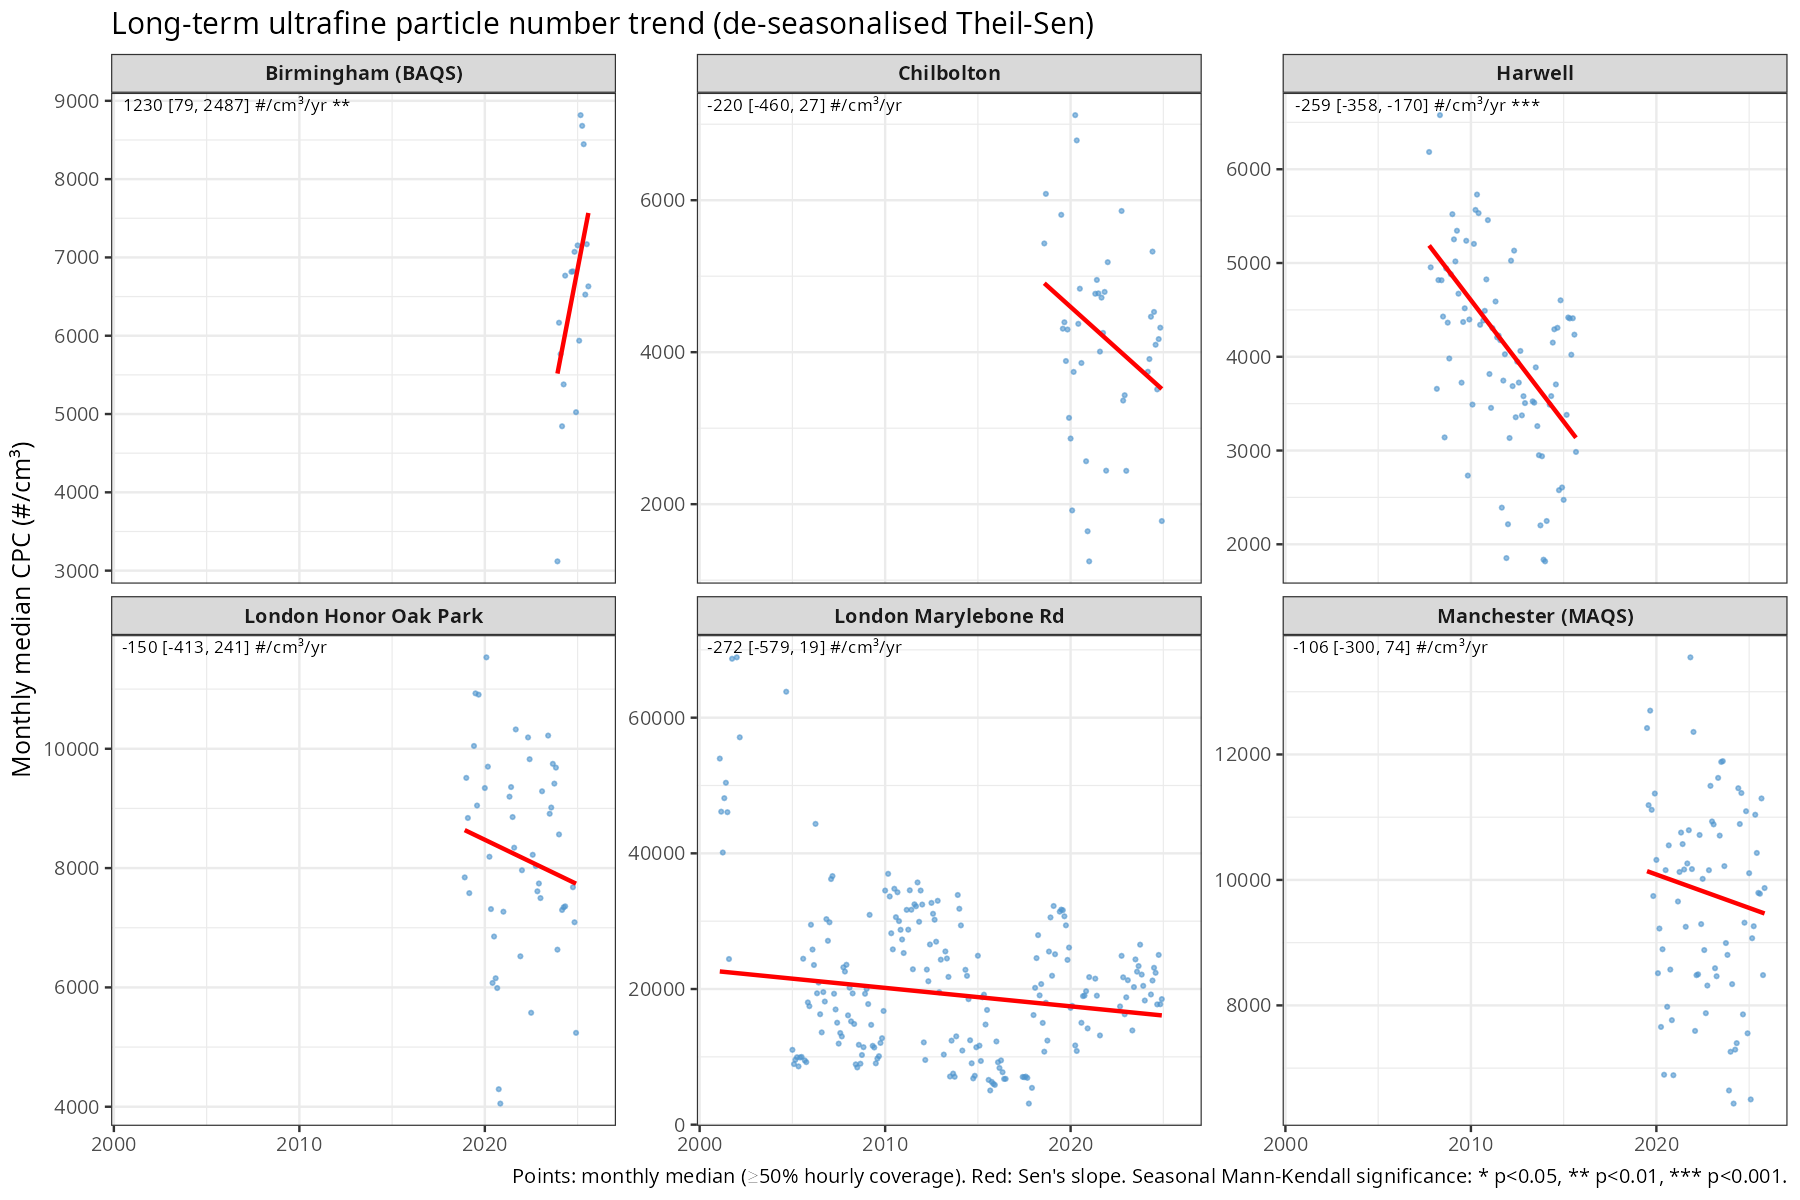
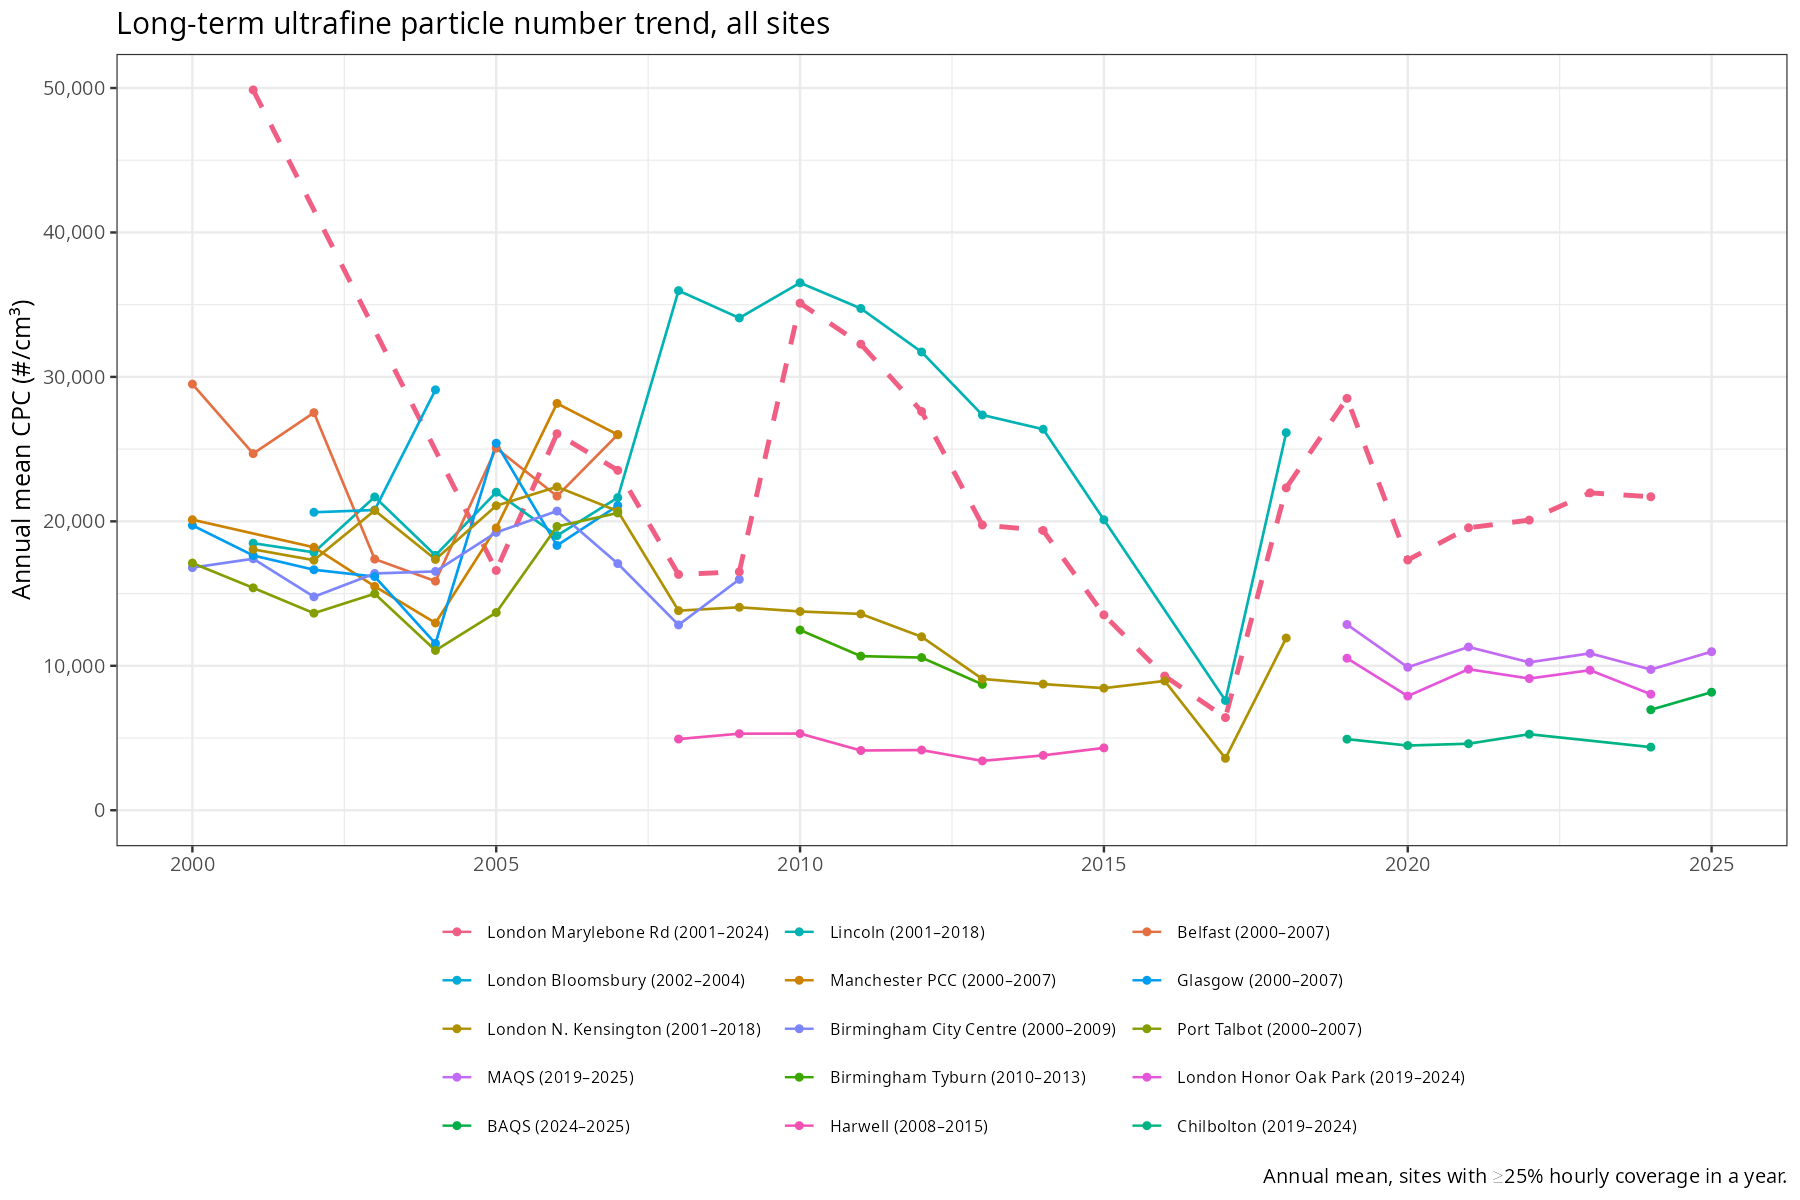
updated Fig 2 and associated text

diff --git a/ufp/README.md b/ufp/README.md
@@ -1,12 +1,10 @@
 # UK Ultrafine Particle (UFP) Trends
 
-A long-term analysis of ultrafine particle number concentrations and size
-distributions at UK monitoring sites, built in R from raw CPC (condensation
-particle counter) and SMPS (scanning mobility particle sizer) instrument
-data spanning **1998–2025**: 15 sites with CPC-only records, 6 of them also
+Using publicly available CPC (condensation particle counter) and SMPS (scanning mobility particle sizer) data from long-term UK monitoring sites, this project is investigating long-term and short-term trends in ultrafine particle (UFP) number concentrations and size
+distributions across the UK. Instrument
+data spans **1998–2025**, with varying amounts of temporal coverage: 15 sites with CPC-only records, 6 of them also
 with concurrent SMPS size-distribution records. The project harmonises six
-different instrument generations onto a common data model, then uses that to
-look at long-term trends, seasonal/diurnal structure, and individual
+different instrument generations and data formats into a common data model, which is used to visualize long-term trends, seasonal/diurnal structure, and individual
 new-particle-formation (NPF) events.
 
 ![Data coverage](figures/fig1_data_coverage.png)
@@ -15,28 +13,31 @@ new-particle-formation (NPF) events.
 |---|---|---|---|
 | Birmingham (BAQS) | 2022–2025 | 2022–2025, 61 bins, 10.4–777 nm | BAQS supersite |
 | Manchester (MAQS) | 2019–2025 | 2019–2025, ~100 bins, 15–552 nm | MAQS supersite |
-| London Marylebone Rd | 1998–2024 | 1998–2009, 2015–2023 (51→122 bins) | Defra PMP, Beddows AURN, UK-AIR |
+| London Marylebone Rd | 1998–2024 | 1998–2009, 2015–2023 (51→122 bins) | Defra PMP, AURN, UK-AIR |
 | London Honor Oak Park | 2015–2024 | 2019–2023 (51→122 bins) | NPL, UK-AIR |
 | London N. Kensington | 2000–2020 | 2007–2020, 51 bins, 16.6–604 nm | Defra PMP, UK-AIR |
-| Harwell | 1998–2020 (gap 2015–20) | 1998–2009, 2015 (51 bins) | Defra PMP, Beddows AURN, UK-AIR |
+| Harwell | 1998–2020 (gap 2015–20) | 1998–2009, 2015 (51 bins) | Defra PMP, AURN, UK-AIR |
 | Chilbolton | 2015–2024 | 2020–2023 (51→122 bins) | NPL, UK-AIR |
-| Bloomsbury, Belfast, Glasgow, Manchester PCC, Port Talbot, Tyburn, Lincoln, Birmingham City Centre | 2000–2020 (varies) | — | Defra PMP / Beddows AURN |
+| Bloomsbury, Belfast, Glasgow, Manchester PCC, Port Talbot, Tyburn, Lincoln, Birmingham City Centre | 2000–2020 (varies) | — | Defra PMP / AURN |
 
-Full detail in `papers/analysis_summary.md`.
+Additional details in `papers/analysis_summary.md`.
 
 ---
 
-## Key findings
+## Preliminary findings
 
-**1. Widespread multi-year decline in particle number, with one clear exception.**
-De-seasonalised Theil-Sen trends (seasonal Mann-Kendall) on monthly median CPC
-concentration show a statistically significant decline at Harwell
-(−259 #/cm³/yr, p<0.001) and London Marylebone Rd (Marylebone falls from
-peaks of 40,000–65,000 #/cm³ in the early 2000s to a 2020s baseline around
-20,000 #/cm³, though its longer, noisier record only reaches p≈0.06). BAQS is
-the exception: its short 2022–2025 record shows a significant *increase*
-(+1,230 #/cm³/yr, p<0.01) — treated as provisional given only ~3 years of
-data, not evidence of a genuine multi-year trend either way.
+**1. Widespread multi-year decline in particle number, with Marylebone the
+persistent outlier.** Annual mean CPC concentration across all 15 monitored
+sites shows a broad decline over the observational record: London Marylebone
+Rd falls from a peak of ~49,900 #/cm³ in 2001 to a 2020s baseline around
+20,000 #/cm³, while remaining the highest site in nearly every year it's
+measured. Excluding Marylebone, the PMP-era 2000s sites (Belfast, Bloomsbury,
+Manchester PCC, Glasgow, Kensington, Birmingham City Centre, Port Talbot,
+Lincoln) generally ran higher — roughly 12,000–36,000 #/cm³ — than the
+modern-instrument sites measured from 2019 onward (MAQS, HOP, BAQS,
+Chilbolton), which cluster around 4,000–13,000 #/cm³. BAQS's short
+2024–2025 record shows an uptick within that range — only two years, too
+short to treat as a genuine trend either way.
 
 ![Long-term trend](figures/fig2_longterm_trend.png)
 
@@ -191,11 +192,3 @@ integration, since this project's bin widths are not perfectly uniform.
 
 ---
 
-## Status / open issues
-
-| Issue | Status |
-|---|---|
-| MAQS concentration rise from ~2022, all size bands | Unresolved — real source change or instrument artefact under investigation |
-| Chilbolton SMPS absolute-unit calibration | Uncertain — diagnostic CPC-overlay comparison in place, not yet resolved |
-| Fixed-3-seed mode fitting can split one broad mode into two spurious modes | Known limitation — mode-height plots preferred over diameter plots where this matters |
-| STL trend/seasonal components across the Harwell/Marylebone 2010–2014 data gap | Linearly interpolated before decomposition — treat that stretch as modelled, not observed |
